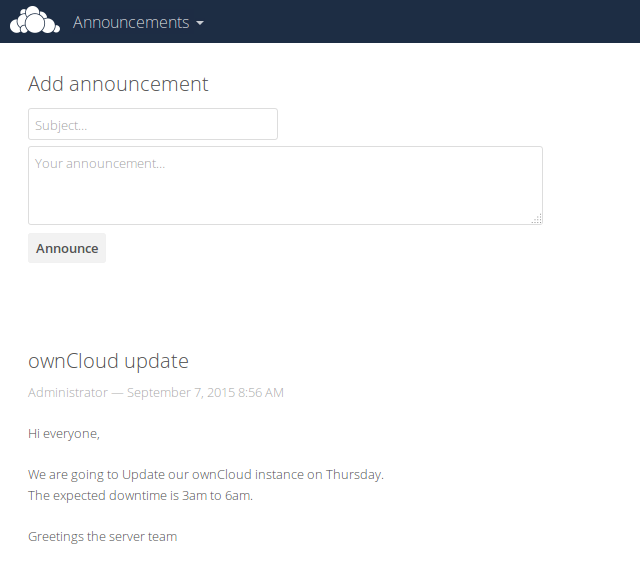
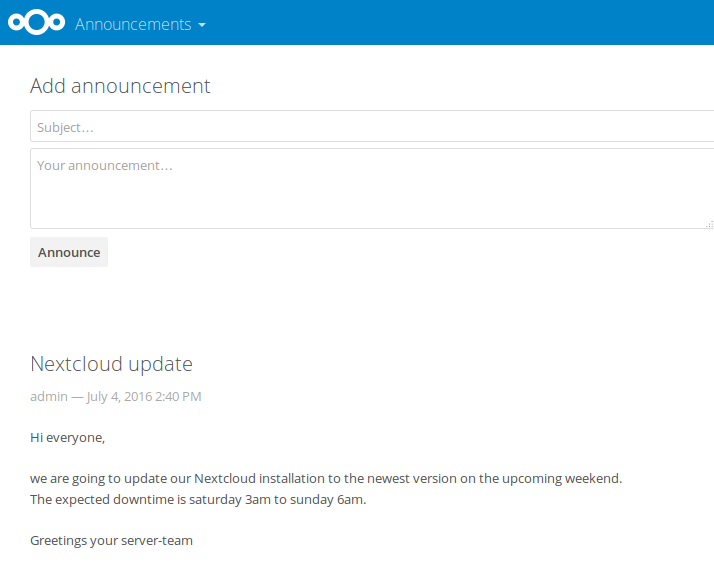
Adjust repository mentions

diff --git a/js/script.js b/js/script.js
@@ -1,5 +1,5 @@
 /**
- * ownCloud - announcementcenter
+ * AnnouncementCenter
  *
  * This file is licensed under the Affero General Public License version 3 or
  * later. See the COPYING file.

diff --git a/CONTRIBUTING.md b/CONTRIBUTING.md
@@ -1,6 +1,6 @@
 ## Submitting issues
 
-If you have questions about how to install or use ownCloud, please direct these to the [mailing list][mailinglist] or our [forum][forum]. We are also available on [IRC][irc].
+If you have questions about how to install or use Nextcloud, please direct these to our [forum][forum]. We are also available on [IRC][irc].
 
 ### Short version
 
@@ -11,16 +11,15 @@ If you have questions about how to install or use ownCloud, please direct these 
   - Go to one of the repositories, click "issues" and type any word in the top search/command bar.
   - You can also filter by appending e. g. "state:open" to the search string.
   - More info on [search syntax within github](https://help.github.com/articles/searching-issues)
-* This repository ([Announcement Center](https://github.com/owncloud/announcementcenter/issues)) is *only* for issues within the ownCloud Announcement Center code.
-* __SECURITY__: Report any potential security bug to security@owncloud.com following our [security policy](https://owncloud.org/security/) instead of filing an issue in our bug tracker
+* This repository ([Announcement Center](https://github.com/nextcloud/announcementcenter/issues)) is *only* for issues within the Announcement Center code.
+* __SECURITY__: Report any potential security bug to us via [our HackerOne page](https://hackerone.com/nextcloud) or security@nextcloud.com following our [security policy](https://nextcloud.com/security/) instead of filing an issue in our bug tracker
 * Report the issue using our [template][template], it includes all the information we need to track down the issue.
 
 Help us to maximize the effort we can spend fixing issues and adding new features, by not reporting duplicate issues.
 
-[template]: https://raw.github.com/owncloud/core/master/issue_template.md
-[mailinglist]: https://mailman.owncloud.org/mailman/listinfo/owncloud
-[forum]: https://forum.owncloud.org/
-[irc]: https://webchat.freenode.net/?channels=owncloud&uio=d4
+[template]: https://raw.github.com/nextcloud/server/master/issue_template.md
+[forum]: https://help.nextcloud.com/
+[irc]: https://webchat.freenode.net/?channels=nextcloud
 
 ### Contribute Code and translations
-Please check [core's contribution guidelines](https://github.com/owncloud/core/blob/master/CONTRIBUTING.md) for further information about contributing code and translations.
+Please check [server's contribution guidelines](https://github.com/nextcloud/server/blob/master/CONTRIBUTING.md#contributing-to-source-code) for further information about contributing code and translations.

diff --git a/issue_template.md b/issue_template.md
@@ -1,7 +1,7 @@
 <!--
-Thanks for reporting issues back to ownCloud! This is the issue tracker of ownCloud, if you have any support question please check out https://owncloud.org/support
+Thanks for reporting issues back to Nextcloud! This is the issue tracker of the Nextcloud Announcement Center App, if you have any support question please check out https://help.nextcloud.com/
 
-This is the bug tracker for the AnnouncementCenter App. Find other components at https://github.com/owncloud/core/blob/master/CONTRIBUTING.md#guidelines
+This is the bug tracker for the AnnouncementCenter App. Find other components at https://github.com/nextcloud/core/blob/master/CONTRIBUTING.md#guidelines
 
 To make it possible for us to help you please fill out below information carefully.
 --> 
@@ -25,14 +25,14 @@ Tell us what happens instead
 
 **PHP version:**
 
-**ownCloud version:** (see ownCloud admin page)
+**Nextcloud version:** (see Nextcloud admin page)
 
-**Where did you install ownCloud from:**
+**Where did you install Nextcloud from:**
 
-**Signing status (ownCloud 9.0 and above):**
+**Signing status:**
 
 ```
-Login as admin user into your ownCloud and access 
+Login as admin user into your Nextcloud and access
 http://example.com/index.php/settings/integrity/failed 
 paste the results here.
 ```
@@ -42,7 +42,7 @@ paste the results here.
 ```
 If you have access to your command line run e.g.:
 sudo -u www-data php occ app:list
-from within your ownCloud installation folder
+from within your Nextcloud installation folder
 ```
 
 **The content of config/config.php:**
@@ -50,7 +50,7 @@ from within your ownCloud installation folder
 ```
 If you have access to your command line run e.g.:
 sudo -u www-data php occ config:list system
-from within your ownCloud installation folder
+from within your Nextcloud installation folder
 
 or 
 
@@ -67,9 +67,9 @@ Insert your config.php content here
 
 ### Logs
 
-#### ownCloud log (data/owncloud.log)
+#### Nextcloud log (data/owncloud.log)
 ```
-Insert your ownCloud log here
+Insert your Nextcloud log here
 ```
 
 #### Browser log

diff --git a/README.md b/README.md
@@ -1,14 +1,12 @@
 # Announcement Center
 
-An Announcement Center app for ownCloud
-
 This app allows administrators to post announcements
 
 ## QA metrics on master branch:
 
-[![Build Status](https://travis-ci.org/owncloud/announcementcenter.svg?branch=master)](https://travis-ci.org/owncloud/announcementcenter)
-[![Scrutinizer Code Quality](https://scrutinizer-ci.com/g/owncloud/announcementcenter/badges/quality-score.png?b=master)](https://scrutinizer-ci.com/g/owncloud/announcementcenter/?branch=master)
-[![Code Coverage](https://scrutinizer-ci.com/g/owncloud/announcementcenter/badges/coverage.png?b=master)](https://scrutinizer-ci.com/g/owncloud/announcementcenter/?branch=master)
+[![Build Status](https://travis-ci.org/nextcloud/announcementcenter.svg?branch=master)](https://travis-ci.org/nextcloud/announcementcenter)
+[![Scrutinizer Code Quality](https://scrutinizer-ci.com/g/nextcloud/announcementcenter/badges/quality-score.png?b=master)](https://scrutinizer-ci.com/g/nextcloud/announcementcenter/?branch=master)
+[![Code Coverage](https://scrutinizer-ci.com/g/nextcloud/announcementcenter/badges/coverage.png?b=master)](https://scrutinizer-ci.com/g/nextcloud/announcementcenter/?branch=master)
 
 ---
 
@@ -17,10 +15,3 @@ This app allows administrators to post announcements
 ### Announcements front page (the "Add announcement" form is admin only)
 
 ![Announcement Center Frontpage](docs/AnnouncementCenterFrontpage.png)
-
----
-
-### The users are also informed by an activity in their stream (can not be disabled)
-
-![Announcement Activity](docs/AnnouncementActivity.png)
-
